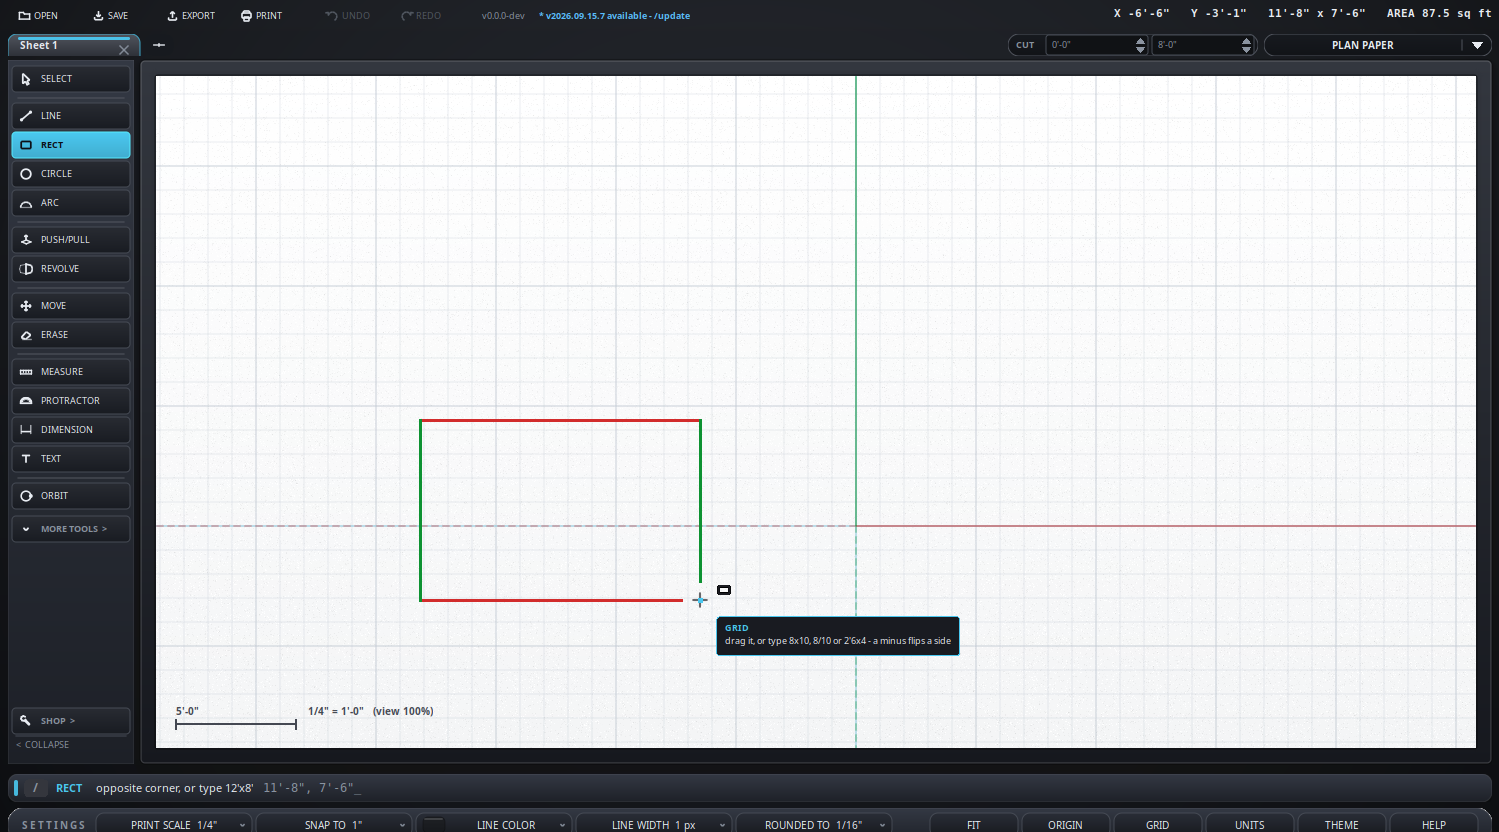
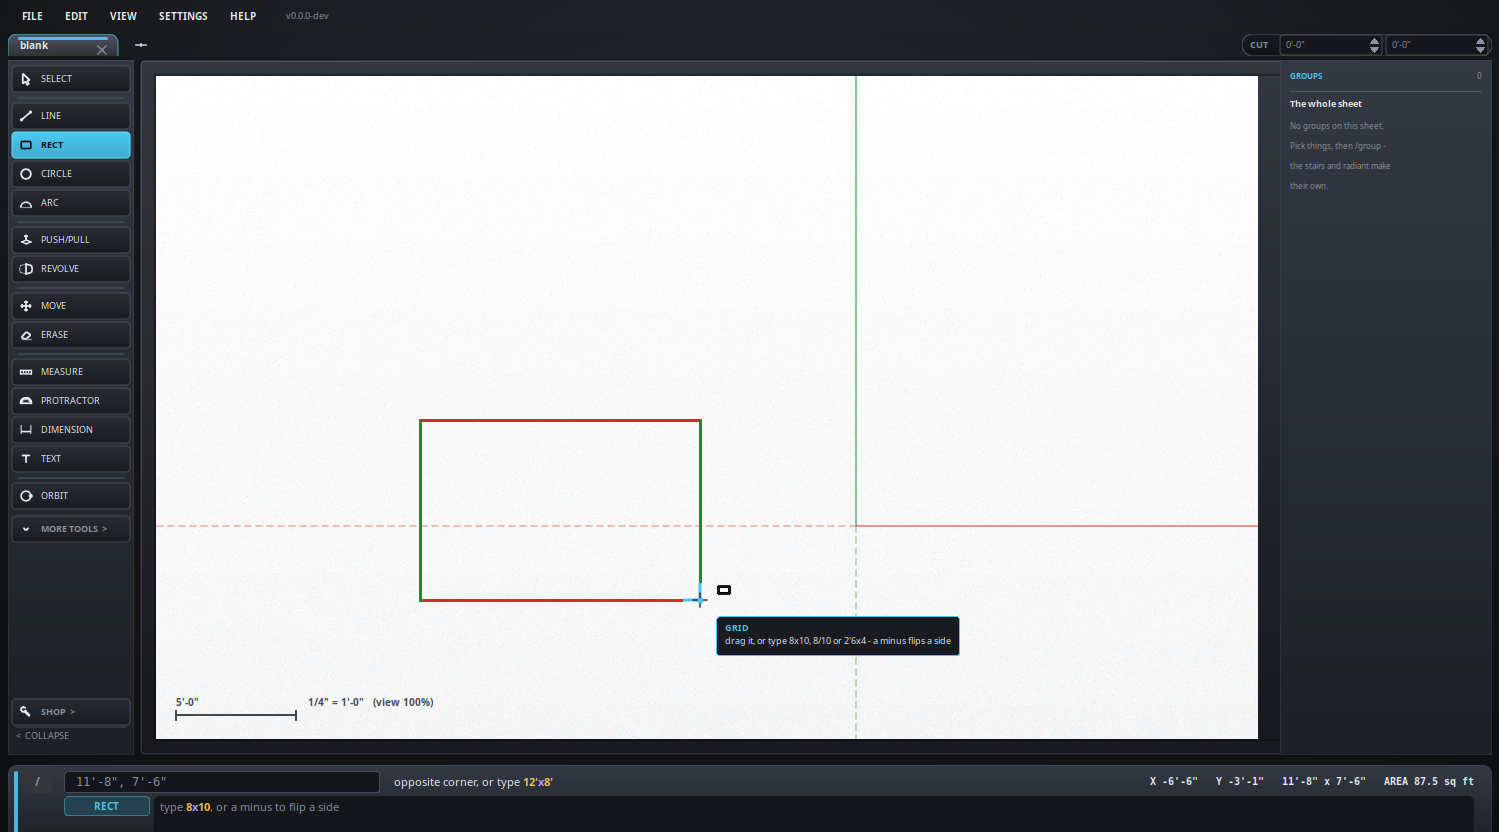
The manual catches up with the chrome
Every picture retaken on the new menus - the old ones still showed the
settings deck and the button-row chrome from two redesigns back.  Three
new stills: the menu bar with VIEW open, SETTINGS with the color
swatches out, and the hint line that names a tool's keys.  The pages
stop saying things people here do not say - no more straight away, rub
out, round the houses, the whole of - and the checker now knows those
words too.  The capture rig learned the new window: 40 px shorter with
the deck gone, and the groups panel off, since no script was calibrated
with it on.  Three animations whose scripts have drifted from the
program keep their last good take; NEEDED.md says which and why.
Postcards and the report bin checked: nothing new.  A note in TODO.md
holds the other-languages idea (resourcestrings and .po files).

diff --git a/docs/help/keys.html b/docs/help/keys.html
@@ -39,13 +39,23 @@ on, and <code>/s</code> is the short command for it.</div>
 <tr><td><kbd>Tab</kbd></td><td>the next tool along</td><td class="alias">while the command list is open it completes a name instead</td></tr>
 </table>
 
+<p>You do not have to memorize any of this.  Whatever tool is in hand, the
+line along the bottom of the window names its keys and what the next click
+will do - glance down and it tells you.</p>
+
+<figure>
+  <a class="zoom" href="shots/keys.png" target="_blank" title="Open larger"><img src="shots/keys.png" alt="Push/pull in hand, and the line along the bottom of the window reading: click a face, and double-click repeats the last push."></a>
+  <figcaption>Push/pull in hand.  The bottom line says what the tool wants
+  next and what its keys do, and it changes as you work.</figcaption>
+</figure>
+
 <h2 id="looking-at-it">Looking at it</h2>
 <table class="sheet">
 <tr><th>Key</th><th>What it does</th><th></th></tr>
 <tr><td><kbd>I</kbd></td><td>Isometric, and back to plan</td><td class="alias"></td></tr>
-<tr><td><kbd>V</kbd></td><td>The next standard view</td><td class="alias">top, front, right and the rest, round the houses</td></tr>
+<tr><td><kbd>V</kbd></td><td>The next standard view</td><td class="alias">top, front, right and the rest, all the way around</td></tr>
 <tr><td><kbd>Shift</kbd>+<kbd>V</kbd></td><td>The previous one</td><td class="alias"></td></tr>
-<tr><td><kbd>Ctrl</kbd>+arrows</td><td>A step round the <a href="cube.html">view cube</a></td><td class="alias">in 3D, between shapes: left and right go round, up and down tip over</td></tr>
+<tr><td><kbd>Ctrl</kbd>+arrows</td><td>A step around the <a href="cube.html">view cube</a></td><td class="alias">in 3D, between shapes: left and right go round, up and down tip over</td></tr>
 <tr><td><kbd>Shift</kbd>+<kbd>F</kbd></td><td>Zoom until it all shows</td><td class="alias">same as <code>/fit</code></td></tr>
 <tr><td><kbd>K</kbd></td><td>The working plane: XY, XZ, YZ</td><td class="alias">same as <code>/plane</code></td></tr>
 <tr><td><kbd>G</kbd></td><td>The ruled paper, on and off</td>
@@ -107,7 +117,7 @@ on, and <code>/s</code> is the short command for it.</div>
 <tr><th>What you do</th><th>What happens</th><th></th></tr>
 <tr><td>Left click</td><td>Whatever the tool in your hand does</td><td class="alias"></td></tr>
 <tr><td>Middle drag</td><td>Spin the model</td>
-    <td class="alias">works whatever tool is in hand and mid-shape, which is exactly when you need to see round the back of something.  From plan or iso it drops into the 3D view first, aimed where you were already looking</td></tr>
+    <td class="alias">works whatever tool is in hand and mid-shape, which is exactly when you need to see around the back of something.  From plan or iso it drops into the 3D view first, aimed where you were already looking</td></tr>
 <tr><td>Right drag</td><td>Slide the drawing about</td><td class="alias"></td></tr>
 <tr><td>Wheel</td><td>Zoom, toward the pointer</td><td class="alias"></td></tr>
 <tr><td><kbd>Ctrl</kbd>+wheel</td><td>Travel up and down through the model</td>

diff --git a/docs/help/units.html b/docs/help/units.html
@@ -6,7 +6,7 @@
 <script src="theme.js"></script></head>
 <body><div class="wrap"><a class="themebtn" id="themebtn" href="#theme" title="Light or dark">Theme</a><nav class="crumbs"><a href="index.html">Help</a> &rsaquo; Units, scale and precision</nav>
 <header><h1>Units, scale and precision</h1><p class="lead">Four settings that sound alike and do different jobs.</p></header>
-<nav class="jump"><b>On this page:</b> <a href="#units-what-you-type-and-read">Units - what you type and read</a> &middot; <a href="#scale-what-comes-out-of-the-printer">Scale - what comes out of the printer</a> &middot; <a href="#precision-how-finely-a-length-is-written">Precision - how finely a length is written</a> &middot; <a href="#snap-where-a-rough-click-lands">Snap - where a rough click lands</a> &middot; <a href="#the-only-one-that-moves-anything">The only one that moves anything</a> &middot; <a href="#which-to-change-when">Which to change when</a></nav>
+<nav class="jump"><b>On this page:</b> <a href="#units-what-you-type-and-read">Units - what you type and read</a> &middot; <a href="#scale-what-comes-out-of-the-printer">Scale - what comes out of the printer</a> &middot; <a href="#precision-how-finely-a-length-is-written">Precision - how finely a length is written</a> &middot; <a href="#snap-where-a-rough-click-lands">Snap - where a rough click lands</a> &middot; <a href="#the-only-one-that-moves-anything">The only one that moves anything</a> &middot; <a href="#which-to-change-when">Which to change when</a> &middot; <a href="#where-they-live">The SETTINGS menu</a></nav>
 
 
 <p>Units, scale, precision and snap.  They sound alike and only one of them
@@ -64,6 +64,19 @@ precision doing its job and the wall is fine.</p>
 <tr><td>Rough clicks to land on whole inches</td><td>Snap</td></tr>
 <tr><td>The model bigger on screen</td><td>None of them - zoom</td></tr>
 </table>
+
+<h2 id="where-they-live">The SETTINGS menu</h2>
+<p>All four live on the <b>SETTINGS</b> menu along the top, and so do the
+line color, the line width and the light or dark chrome.  Each row names
+its current value right on the menu - <i>Snap To &nbsp;-&nbsp; 1"</i> -
+so a glance tells you how the drawing is set without opening anything.</p>
+
+<figure>
+  <a class="zoom" href="shots/menu-color.png" target="_blank" title="Open larger"><img src="shots/menu-color.png" alt="The SETTINGS menu open, each row showing its current value, with the Line Color list out beside it: twelve named colors, each with its swatch, and the one in use ringed."></a>
+  <figcaption>The SETTINGS menu, with the Line Color list out.  The color
+  in use wears a ring; <i>Another Color...</i> at the bottom opens the
+  full picker.</figcaption>
+</figure>
 
 <footer><a href="index.html">Back to the contents</a> &middot; Heckers Sketch help</footer>
 </div></body></html>

diff --git a/docs/help/index.html b/docs/help/index.html
@@ -28,7 +28,7 @@
 <h2 id="picking-and-moving">Picking and moving</h2>
 <table class="cards">
 <tr><td><a href="tools/select.html"><b>Select</b></a><br><small>Pick what you want to work on.</small></td><td><a href="tools/move.html"><b>Move</b></a><br><small>Move things, or copy them.</small></td><td><a href="tools/rotate.html"><b>Rotate</b></a><br><small>Turn things about a point.</small></td></tr>
-<tr><td><a href="tools/erase.html"><b>Erase</b></a><br><small>Rub out edges - and the faces they hold.</small></td><td><a href="entity.html"><b>The entity panel</b></a><br><small>What is picked, and what you can change.</small></td><td><a href="groups.html"><b>Groups</b></a><br><small>Keeping one piece to itself.</small></td></tr>
+<tr><td><a href="tools/erase.html"><b>Erase</b></a><br><small>Erase edges - and the faces they hold.</small></td><td><a href="entity.html"><b>The entity panel</b></a><br><small>What is picked, and what you can change.</small></td><td><a href="groups.html"><b>Groups</b></a><br><small>Keeping one piece to itself.</small></td></tr>
 <tr><td><a href="heck.html"><b>Heck</b></a><br><small>The drawing as text you can read and type - the file is written in it.</small></td><td><a href="writing-heck.html"><b>Writing Heck</b></a><br><small>The whole language on one page, with examples.</small></td><td></td></tr>
 </table>
 <h2 id="measuring">Measuring</h2>
@@ -54,17 +54,15 @@
 <h2 id="about-this-help">About this help</h2>
 <p>These pages are the same in the program and on the web.  In the program,
 <code>/manual</code> opens them from a copy kept beside Heckers Sketch, so
-they are there without the internet once it has fetched them.</p>
+they are there without the internet once it has downloaded them.</p>
 <p><b>Click any picture or animation to see it larger</b> - in its own
 window in the program, or a new tab on the web.</p>
 <p><b>Light or dark.</b>  The button at the top of every page switches
 between them, on the web and in the program alike: <i>Auto</i> follows
 whatever your phone, desktop or - inside the program - the program itself is
-wearing, and <i>Light</i> and <i>Dark</i> say so regardless.  The choice is
+set to, and <i>Light</i> and <i>Dark</i> say so regardless.  The choice is
 remembered.</p>
 <p>Every picture is taken on an empty sheet by driving the program itself,
-with the smallest thing that shows the tool.  A few pages still say
-"not taken yet" where a picture will go; <code>shots/NEEDED.md</code> lists
-them.</p>
+with the smallest thing that shows the tool.</p>
 <footer>Heckers Sketch help &middot; <a href="https://github.com/TonyStone31/heckers-sketch">the program on GitHub</a></footer>
 </div></body></html>

diff --git a/docs/help/tools/erase.html b/docs/help/tools/erase.html
@@ -7,7 +7,7 @@
 <body><div class="wrap"><a class="themebtn" id="themebtn" href="#theme" title="Light or dark">Theme</a><nav class="crumbs"><a href="../index.html">Help</a> &rsaquo; Erase</nav>
 <header><h1>Erase</h1><p class="lead">Delete things.</p></header>
 <p>Keyboard: <kbd>E</kbd></p><h2 id="how-to-use-it">How to use it</h2><ol><li>Click anything to delete it.</li><li>Or hold the button down and drag over several - what the cursor gathers turns red, and none of it goes until you let go.</li><li>Or select several and press Delete.</li><li>Hold <kbd>Ctrl</kbd> and the eraser softens an edge instead of rubbing it out: the edge stops being drawn but the faces either side stay joined. <kbd>Ctrl</kbd>+<kbd>Shift</kbd> brings a softened edge back.</li><li>With <kbd>Ctrl</kbd> held the eraser takes only edges, so there is no way to lose a face by aiming badly.</li></ol><figure>
-  <a class="zoom" href="../shots/tool-erase.webp" target="_blank" title="Open larger"><img src="../shots/tool-erase.webp" alt="Two edges rubbed off the top of a box, and the lid goes with them, leaving an open box with its pale blue insides showing."></a>
+  <a class="zoom" href="../shots/tool-erase.webp" target="_blank" title="Open larger"><img src="../shots/tool-erase.webp" alt="Two edges erased from the top of a box, and the lid goes with them, leaving an open box with its pale blue insides showing."></a>
   <figcaption>Two edges off the top of a box, and the lid goes with them.
   The pale blue is the <i>back</i> of the faces - you are looking at the
   inside of the box now, which is exactly what that color is for.</figcaption>
@@ -15,7 +15,7 @@
 
 <h2 id="edges-and-faces">Edges and faces</h2>
 <p>A face is not a thing sitting there - it is what a closed run of edges
-encloses.  So rubbing out an edge takes any face that was standing on it, the
+encloses.  So erasing an edge takes any face that was built on it, the
 way SketchUp does it: "faces are erased when you erase their bounding edges,
 opening and reshaping your geometry".  Rub one edge off a box and the two
 sides meeting along it go with it, and you are looking into an open box.</p>
@@ -31,7 +31,7 @@ along the bottom says so.</p>
 pick it with the select tool and press <kbd>Delete</kbd>.  Both leave every
 edge standing, so what you get is an open box with a complete wireframe lid.
 Undo brings anything back.</p>
-<p>A face in a group is the group's: rubbing out an edge takes only the faces
+<p>A face in a group is the group's: erasing an edge takes only the faces
 of its own group.  Erasing stairs whose board lies along the top of a wall
 leaves the wall's face alone.</p>
 <h2 id="guides">Guides</h2>

diff --git a/docs/help/faces.html b/docs/help/faces.html
@@ -16,11 +16,11 @@ see; the back is drawn in a pale blue so you can tell at a glance.</p>
 <p>This is the one idea the rest of the page hangs off, and it is worth
 getting straight early: <b>a face is what a closed run of edges encloses.</b>
 You never draw a face.  You draw edges, and wherever they close a flat loop a
-face appears in it.  Rub out one of those edges and the loop is not closed
+face appears in it.  Erase one of those edges and the loop is not closed
 any more, so the face goes - not because anything deleted it, but because
 there is nothing for it to be.</p>
 <figure>
-  <a class="zoom" href="shots/faces-heal.webp" target="_blank" title="Open larger"><img src="shots/faces-heal.webp" alt="One edge rubbed off a box takes the two faces meeting along it; tracing the same edge back with the line tool brings both faces back."></a>
+  <a class="zoom" href="shots/faces-heal.webp" target="_blank" title="Open larger"><img src="shots/faces-heal.webp" alt="One edge erased from a box takes the two faces meeting along it; tracing the same edge back with the line tool brings both faces back."></a>
   <figcaption>One edge off the top of the box, and the two faces meeting
   along it go with it - the pale blue is the inside.  Trace the same edge
   back in with the line tool, corner to corner, and both faces come
@@ -57,7 +57,7 @@ has no outside until something decides.</p>
 against their neighbors, which fixes most of it in one go.</p>
 
 <h2 id="painting-one">Painting one</h2>
-<p>A face carries a <b>material</b>, which is its own thing and nothing to do
+<p>A face has a <b>material</b>, which is its own thing and nothing to do
 with the color of the edges around it.  Pick the face, and the entity panel
 has a <b>Material</b> row: <b>Paint...</b> makes it that color, at full
 strength, with the shading still doing its work so a box still reads as a

diff --git a/docs/help/cube.html b/docs/help/cube.html
@@ -42,11 +42,11 @@ view does</b>, so where a corner was a moment ago is not where it is now.
 Aim after it has settled, not before.</div>
 
 <h2 id="from-the-keyboard">From the keyboard</h2>
-<p>In the 3D view, <kbd>Ctrl</kbd> and an arrow key walks round the cube a
+<p>In the 3D view, <kbd>Ctrl</kbd> and an arrow key walks around the cube a
 step at a time, gliding the same way a click does.</p>
 <ul>
 <li><kbd>Ctrl</kbd>+<kbd>&rarr;</kbd> and <kbd>Ctrl</kbd>+<kbd>&larr;</kbd>
-go round the sides - a face, the edge beside it, the next face.</li>
+go around the sides - a face, the edge beside it, the next face.</li>
 <li><kbd>Ctrl</kbd>+<kbd>&uarr;</kbd> tips up towards the top, and
 <kbd>Ctrl</kbd>+<kbd>&darr;</kbd> down towards the bottom.</li>
 <li>Looking straight down, left and right turn the drawing an eighth of the
@@ -70,9 +70,16 @@ selected it never re-frames - it just goes to the view you asked for.
 
 <h2 id="why-it-is-there">Why it is there</h2>
 <p>The VIEW menu along the top tells you the name of a view.  The cube
-tells you which way round you are, which is the thing you actually want to
+tells you which way around you are, which is the thing you actually want to
 know when you have been spinning a model for ten minutes.  This one is
 Revit&#x27;s idea; SketchUp has no such thing.</p>
+
+<figure>
+  <a class="zoom" href="shots/menus.png" target="_blank" title="Open larger"><img src="shots/menus.png" alt="The VIEW menu open under the menu bar: Fit, the paper modes, every camera preset, then the grid, the cube and the two panels."></a>
+  <figcaption>Every named view is on the VIEW menu, with the paper modes
+  above and the grid, cube and panels below.  A check mark says which one
+  you are in.</figcaption>
+</figure>
 
 <h2 id="see-also">See also</h2>
 <ul>

diff --git a/docs/help/tools/circle.html b/docs/help/tools/circle.html
@@ -6,7 +6,7 @@
 <script src="../theme.js"></script></head>
 <body><div class="wrap"><a class="themebtn" id="themebtn" href="#theme" title="Light or dark">Theme</a><nav class="crumbs"><a href="../index.html">Help</a> &rsaquo; Circle</nav>
 <header><h1>Circle</h1><p class="lead">A circle from the middle out.</p></header>
-<p>Keyboard: <kbd>C</kbd></p><h2 id="how-to-use-it">How to use it</h2><ol><li>Click the center, then type the radius or drag it.</li><li>It is a face straight away.</li></ol><h2 id="how-round-it-is">How round it is</h2>
+<p>Keyboard: <kbd>C</kbd></p><h2 id="how-to-use-it">How to use it</h2><ol><li>Click the center, then type the radius or drag it.</li><li>It is a face right away.</li></ol><h2 id="how-round-it-is">How round it is</h2>
 <p>A circle is drawn as a ring of straight sides.  Twenty-four is the
 starting number, which is round enough to look round and few enough to stay
 quick.  More sides is a smoother edge and a heavier drawing; fewer sides is a
@@ -30,7 +30,7 @@ makes a rounded corner:</p>
 <ol><li>Draw a circle over the corner, sized so it just touches both sides.
 The two sides come apart at the touch points and the circle comes apart
 there too.</li>
-<li>Rub out the three quarters of the circle you do not want, and the short
+<li>Erase the three quarters of the circle you do not want, and the short
 piece of each side between the touch point and the corner.</li>
 <li>What is left is the quarter across the corner, joined to both sides.
 Do the other three corners the same way.</li></ol>

diff --git a/docs/help/writing-heck.html b/docs/help/writing-heck.html
@@ -225,7 +225,7 @@ only write the lines, and the faces come out facing out.</li>
 <code>box Tray = 0 east, 0 north, 0 up; 3' east, 1' north, 10" up; open top</code>,
 or <code>open = top north</code> in a block.</li>
 <li><b>In a solid, every flat loop its lines close becomes a face</b> - a
-ring of lines round the middle of a body included.  Give such a loop a
+ring of lines around the middle of a body included.  Give such a loop a
 <code>noface</code> when it is not one.</li>
 <li><b><code>noface</code></b> is a loop of lines that is not a face: an
 open top on anything that is not a box, a window.  It is how you leave
@@ -333,7 +333,7 @@ end</pre>
 <code>start</code>, <code>end</code> or <code>ends</code>; the outlines between
 are never faces.</li>
 <li><b>Between circles the long edges are soft</b>, so a round loft looks
-round; the circles themselves stay drawn, rings round the body.</li>
+round; the circles themselves stay drawn, rings around the body.</li>
 <li><b>A side that is not flat</b> - a square turned against the next - is
 made two triangles.</li>
 <li><b>Square to round</b>: the square needs as many corners as the circle -

diff --git a/docs/help/tools/push.html b/docs/help/tools/push.html
@@ -13,7 +13,7 @@ stipples the ring only, the reading in the top right is the area of the ring,
 and pushing it raises a wall with the opening lined - not a filled block.</p>
 <h2 id="what-it-looks-like">What it looks like</h2><figure>
   <a class="zoom" href="../shots/tool-push.webp" target="_blank" title="Open larger"><img src="../shots/tool-push.webp" alt="Picking the push/pull tool and raising a circle into a cylinder."></a>
-  <figcaption>Pick the tool, click the face, move up, click again.  That is the whole of it.</figcaption>
+  <figcaption>Pick the tool, click the face, move up, click again.  That is all there is to it.</figcaption>
 </figure><figure>
   <a class="zoom" href="../shots/tool-push.png" target="_blank" title="Open larger"><img src="../shots/tool-push.png" alt="A box and a cylinder, each pushed up from a flat shape."></a>
   <figcaption>A square and a circle, each pushed straight up.  The tool asks nothing about which it is - a face is a face - and the creases down the side of the round one are softened, which is what makes it read as a pipe rather than a barrel of staves.</figcaption>

diff --git a/docs/help/tools/dim.html b/docs/help/tools/dim.html
@@ -8,7 +8,7 @@
 <header><h1>Dimension</h1><p class="lead">Put a measurement on the drawing.</p></header>
 <p>Keyboard: <kbd>D</kbd></p><h2 id="how-to-use-it">How to use it</h2>
 <ol>
-<li><b>Click the body of an edge</b> and it dimensions the whole of that edge,
+<li><b>Click the body of an edge</b> and it dimensions all of that edge,
 end to end.  One click, and it is the one to reach for.  Before you click,
 the edge it will take is lit, with a dot at each end and its length beside
 it.</li>
@@ -24,7 +24,7 @@ on until the mouse is clearly heading another way.</li>
 
 <h2 id="circles-and-arcs">Circles and arcs</h2>
 <p>Hover a circle and it lights with its diameter; hover an arc and it lights
-with its radius, the center marked.  Click, move round the curve to turn the
+with its radius, the center marked.  Click, move around the curve to turn the
 line to where it reads best, and click again.  It is written
 <code>DIA 4'-0"</code> or <code>R 4'-0"</code>.</p>
 <p>A corner of the little straight pieces a curve is drawn with takes the

diff --git a/docs/help/commands.html b/docs/help/commands.html
@@ -10,7 +10,7 @@
 
 
 <p>SketchUp has no command line.  This does, and it is the fastest way to
-reach anything here: you do not have to remember where a thing lives in a
+reach anything here: you do not have to remember where a thing is buried in a
 menu, only roughly what it is called.  Everything below is on this one page
 so you can keep it open beside the program.</p>
 
@@ -207,7 +207,7 @@ too, and most are on the right button.</p>
 closed - the answer a slicer will not give you.  See
 <a href="solids.html">solids and 3D printing</a>.</li>
 <li><code>/center</code> centers what is selected on the floor - across X and
-Y, standing on Z zero, which is where a 3D printer's slicer expects to find
+Y, sitting on Z zero, which is where a 3D printer's slicer expects to find
 it.  <code>/tozero</code> stands it on the floor too, with its near bottom
 corner on the origin rather than its middle.</li>
 <li><code>/cube</code> puts a view cube in the top right of a 3D view.  Click

diff --git a/docs/help/tools/orbit.html b/docs/help/tools/orbit.html
@@ -36,7 +36,7 @@ of <kbd>Ctrl</kbd> first; nothing happens.</p>
 <p>Use it when you want a face of the model squared to the screen and did not
 want to hunt for the exact angle by hand.</p>
 <figure>
-  <a class="zoom" href="../shots/tool-orbit-snap.webp" target="_blank" title="Open larger"><img src="../shots/tool-orbit-snap.webp" alt="Orbiting the model to an untidy angle, holding Ctrl while the view cube lights the nearest view, and letting go as the view glides there."></a>
+  <a class="zoom" href="../shots/tool-orbit-snap.webp" target="_blank" title="Open larger"><img src="../shots/tool-orbit-snap.webp" alt="Orbiting the model to an odd angle, holding Ctrl while the view cube lights the nearest view, and letting go as the view glides there."></a>
   <figcaption>Spin it round, hold <kbd>Ctrl</kbd> - the cube in the corner
   lights the view it will go to - and let go.  It glides there, so you never
   lose track of the model.</figcaption>
